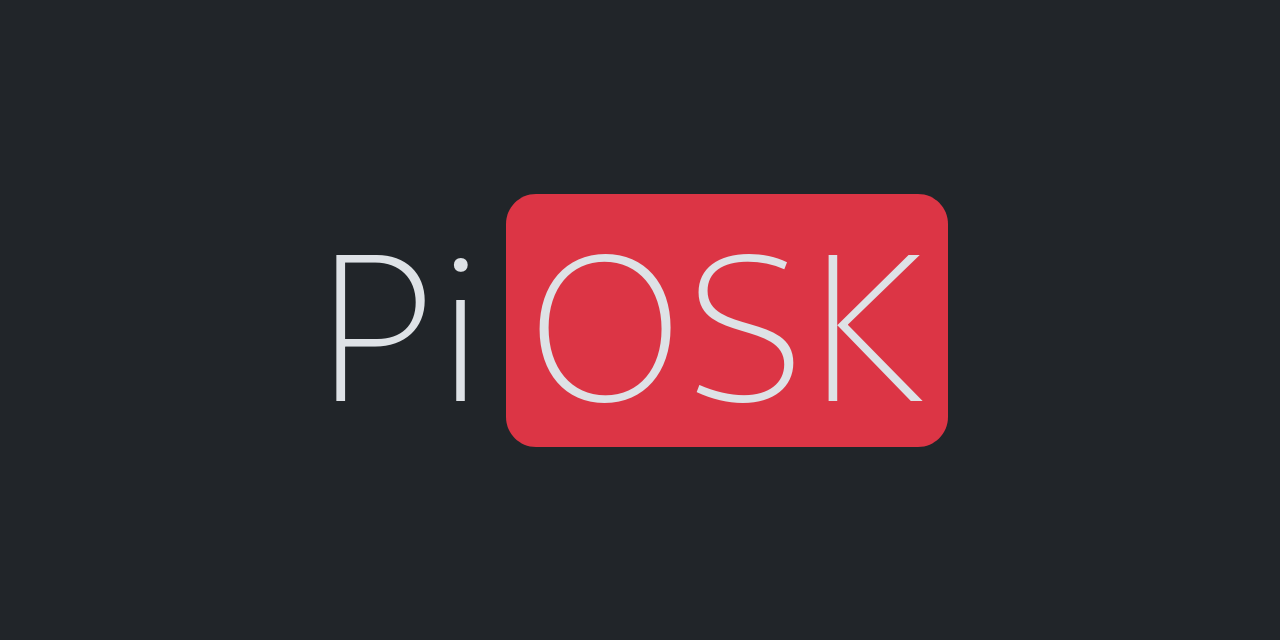
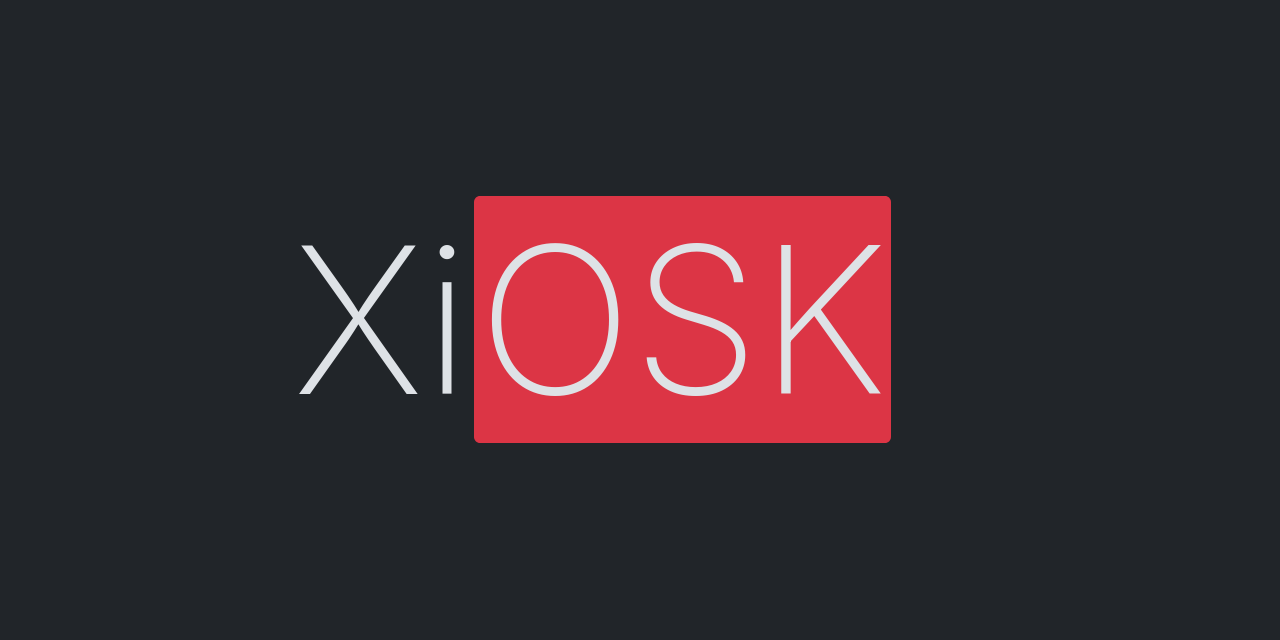
chore(v5): website and docs update (#146)
* update docs for v5

* chore: update references in home and team pages

* chore: update header and footer references in layout

* rename PiOSK to XiOSK in package, config, readme

* update banner

Changed region(s): [[0.2188, 0.2812, 0.75, 0.7188]]

diff --git a/www/README.md b/www/README.md
@@ -1,2 +1,2 @@
-This folder contains the source code for the official PiOSK documentation and landing website.
+This folder contains the source code for the official XiOSK documentation and landing website.
 
